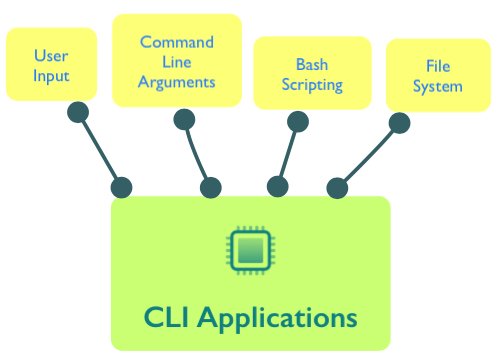
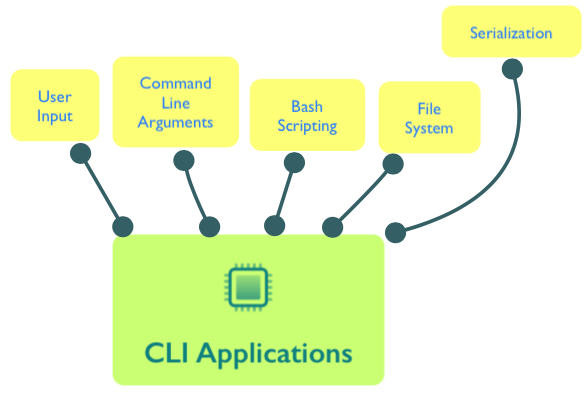
Added external resource links for serialization, and uploading new milestone mind map

diff --git a/02-command-line-applications/resources/CLI_SERIALIZATION.md b/02-command-line-applications/resources/CLI_SERIALIZATION.md
@@ -27,3 +27,8 @@ with open('serialized-interests', 'rb') as f:
   deserialized = pickle.load(f)
   print(deserialized)
 ```
+
+## Additional Resources
+
+* [Dive into Python: Serialization](http://www.diveintopython3.net/serializing.html)
+* [Python object serialization](https://docs.python.org/3.3/library/pickle.html)

diff --git a/02-command-line-applications/resources/CLI_MESSAGE_QUEUE.md b/02-command-line-applications/resources/CLI_MESSAGE_QUEUE.md
@@ -1,0 +1,3 @@
+# Message Queues
+
+This is a stub README for a future CLI applications PowerUp module...
